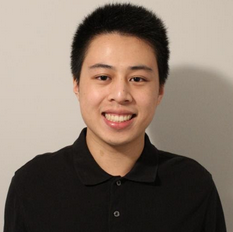
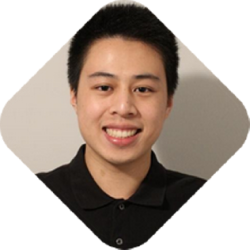
Uploaded missing assets from design document.

diff --git a/src/lib/officers.ts b/src/lib/officers.ts
@@ -16,28 +16,28 @@ export const officers: Record<string, Officer[]> = {
     {
       name: "Jacob Nguyen",
       title: "President/Create Director 🎨",
-      picture: "jacob-nguyen.jpg",
+      picture: "jacob-nguyen.png",
     },
     {
       name: "Aaron Lieberman",
       title: "Internal Vice President 😎",
-      picture: "aaron-lieberman.jpg",
+      picture: "aaron-lieberman.png",
     },
     {
       name: "Samuel Sandoval",
       title: "Dev Director 🧠",
-      picture: "samuel-sandoval.jpg",
+      picture: "samuel-sandoval.png",
     },
     {
       name: "Ethan Davidson",
       title: "Webmaster 👨💻",
-      picture: "ethan-davidson.jpg",
+      picture: "ethan-davidson.png",
       url: "https://github.com/EthanThatOneKid",
     },
     {
       name: "Mike Ploythai",
       title: "Create Officer",
-      picture: "mike-ploythai.jpeg",
+      picture: "mike-ploythai.png",
     },
     {
       name: "Andrew Lau",
@@ -52,12 +52,12 @@ export const officers: Record<string, Officer[]> = {
     {
       name: "Jason Anthony",
       title: "Secretary",
-      picture: "jason-anthony.jpg",
+      picture: "jason-anthony.png",
     },
     {
       name: "Shaleen Mathur",
       title: "Workshop Manager",
-      picture: "shaleen-mathur.jpg",
+      picture: "shaleen-mathur.png",
     },
     {
       name: "Nicolas Renteria",
@@ -72,7 +72,7 @@ export const officers: Record<string, Officer[]> = {
     {
       name: "Samuel Valls",
       title: "Community Manager",
-      picture: "samuel-valls.jpg",
+      picture: "samuel-valls.png",
     },
     {
       name: "Wilbert Rodriguez",
@@ -82,12 +82,12 @@ export const officers: Record<string, Officer[]> = {
     {
       name: "Johnson Tong",
       title: "Co-Workshop Manager",
-      picture: "johnson-tong.jpg",
+      picture: "johnson-tong.png",
     },
     {
       name: "Kavit Sanghavi",
       title: "Algo Director",
-      picture: "kavit-sanghavi.jpg",
+      picture: "kavit-sanghavi.png",
     },
     {
       name: "Kevin Dillon",
@@ -107,9 +107,8 @@ export const officers: Record<string, Officer[]> = {
     {
       name: "Armanul Ambia",
       title: "Dev Officer",
-      picture: "armanul-ambia.jpg",
+      picture: "armanul-ambia.png",
     },
-
     {
       name: "Lisa Hong",
       title: "Product Officer",
